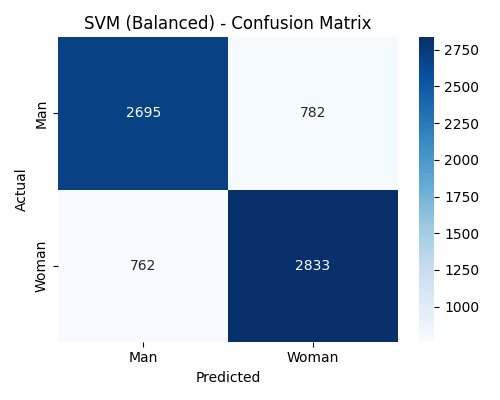
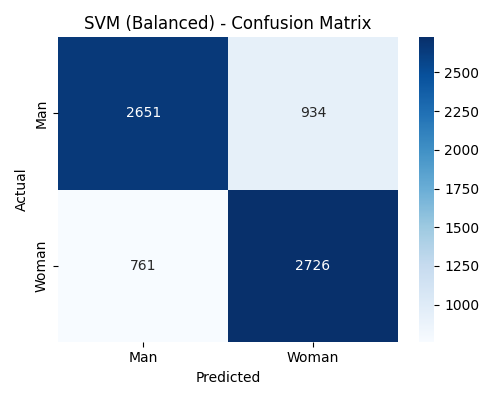
test

diff --git a/train_gender_model.py b/train_gender_model.py
@@ -83,8 +83,15 @@ selector = SelectKBest(mutual_info_classif, k=300)
 X_train_selected = selector.fit_transform(X_train_vt, y_train)
 X_test_selected = selector.transform(X_test_vt)
 
-# Step 8: Evaluate models + save results
+# Step 8: Evaluate models
 results = {}
+models = {
+    "Logistic Regression": LogisticRegression(max_iter=2000, solver='liblinear', class_weight='balanced'),
+    "Decision Tree": DecisionTreeClassifier(class_weight='balanced', random_state=42),
+    "KNN": KNeighborsClassifier(n_neighbors=5),
+    "SVM": SVC(probability=True, class_weight='balanced', random_state=42)
+}
+trained_models = {}
 
 def evaluate_model(model, X_train, X_test, y_train, y_test, name=""):
     model.fit(X_train, y_train)
@@ -108,36 +115,21 @@ def evaluate_model(model, X_train, X_test, y_train, y_test, name=""):
 
     return acc, model
 
-# Run models
-results["Logistic Regression"], lr_model = evaluate_model(
-    LogisticRegression(max_iter=2000, solver='liblinear', class_weight='balanced'),
-    X_train_selected, X_test_selected, y_train, y_test, "Logistic Regression (Balanced)"
-)
+for name, clf in models.items():
+    acc, fitted_model = evaluate_model(clf, X_train_selected, X_test_selected, y_train, y_test, name)
+    results[name] = acc
+    trained_models[name] = fitted_model
 
-results["Decision Tree"], dt_model = evaluate_model(
-    DecisionTreeClassifier(class_weight='balanced', random_state=42),
-    X_train_selected, X_test_selected, y_train, y_test, "Decision Tree"
-)
+# Step 9: Automatically choose best model
+best_model_name = max(results, key=results.get)
+best_model = trained_models[best_model_name]
+print(f"\nBest model selected: {best_model_name} with accuracy {results[best_model_name]:.4f}")
 
-results["KNN"], knn_model = evaluate_model(
-    KNeighborsClassifier(n_neighbors=5),
-    X_train_selected, X_test_selected, y_train, y_test, "KNN"
-)
-
-results["SVM"], svm_model = evaluate_model(
-    SVC(probability=True, class_weight='balanced', random_state=42),
-    X_train_selected, X_test_selected, y_train, y_test, "SVM (Balanced)"
-)
-    
-# Step 9: Save final model (force Logistic Regression for stability)
-print("\nFor deployment, Logistic Regression model was selected for its stability in unseen data.")
-best_model = lr_model
-
-# Save best model + pipeline components
+# Step 10: Save best model + pipeline
 joblib.dump(best_model, "model.pkl", compress=3)
 joblib.dump(scaler, "scaler.pkl", compress=3)
 joblib.dump(pca, "pca.pkl", compress=3)
 joblib.dump(vt, "variance_threshold.pkl", compress=3)
 joblib.dump(selector, "selector.pkl", compress=3)
 
-print("\nBest model and pipeline saved with compression!")
+print("\nModel and pipeline saved successfully!")

diff --git a/streamlit_app.py b/streamlit_app.py
@@ -3,7 +3,7 @@ import numpy as np
 from PIL import Image
 import joblib
 
-# Load saved model and pipeline components
+# Load model and pipeline
 model = joblib.load("model.pkl")
 scaler = joblib.load("scaler.pkl")
 pca = joblib.load("pca.pkl")
@@ -11,7 +11,6 @@ vt = joblib.load("variance_threshold.pkl")
 selector = joblib.load("selector.pkl")
 
 st.set_page_config(page_title="Gender Prediction from Face Image", layout="centered")
-
 st.title("Gender Prediction from Face Image")
 st.write("Upload a grayscale or colored face image (128x128), the model will predict gender.")
 
@@ -19,22 +18,19 @@ uploaded_file = st.file_uploader("Choose an image...", type=["jpg", "jpeg", "png
 
 if uploaded_file is not None:
     try:
-        # Step 1: Read & preprocess image
         image = Image.open(uploaded_file).convert("L")
         image_resized = image.resize((128, 128))
         img_array = np.array(image_resized).flatten().reshape(1, -1)
 
-        # ✅ Manual scaling for safety
-        img_array = img_array.astype(np.float32) / 255.0
         st.image(image_resized, caption="Processed Image", width=150)
 
-        # Step 2: Apply full pipeline
+        # Apply full pipeline
         img_scaled = scaler.transform(img_array)
         img_pca = pca.transform(img_scaled)
         img_vt = vt.transform(img_pca)
         img_selected = selector.transform(img_vt)
 
-        # Step 3: Predict
+        # Predict
         prediction = model.predict(img_selected)[0]
         proba = model.predict_proba(img_selected)[0]
 
@@ -43,4 +39,4 @@ if uploaded_file is not None:
         st.write(f"Confidence → Man: {proba[0]*100:.2f}%, Woman: {proba[1]*100:.2f}%")
 
     except Exception as e:
-        st.error(f"Error processing image: {e}")
+        st.error(f"Error: {e}")
